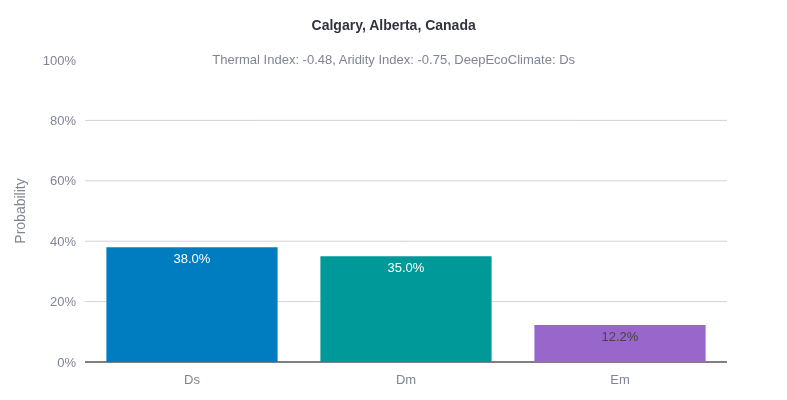
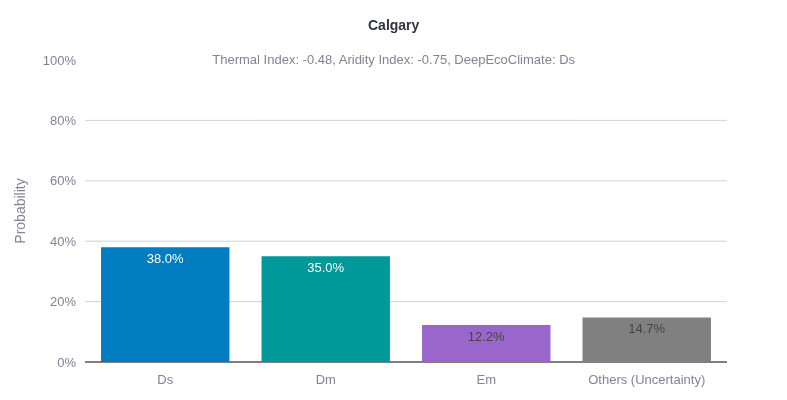
feat: add Others (Uncertainty) to probability chart

diff --git a/backend.py b/backend.py
@@ -370,6 +370,16 @@ def create_probability_chart(
     probs = probabilities[top_3_indices]
     colors = [color_map[cls] for cls in classes]
 
+    # calculate remaining probability
+    remaining_prob = 1.0 - np.sum(probs)
+
+    # add "Others (Uncertainty)" if remaining probability >= 0.05
+    if remaining_prob >= 0.05:
+        classes.append("Others (Uncertainty)")
+        probs = np.append(probs, remaining_prob)
+        # use a distinct color that's different from climate type colors
+        colors.append("#808080")  # gray, different from climate type colors
+
     fig = go.Figure()
 
     # add probability bar chart
